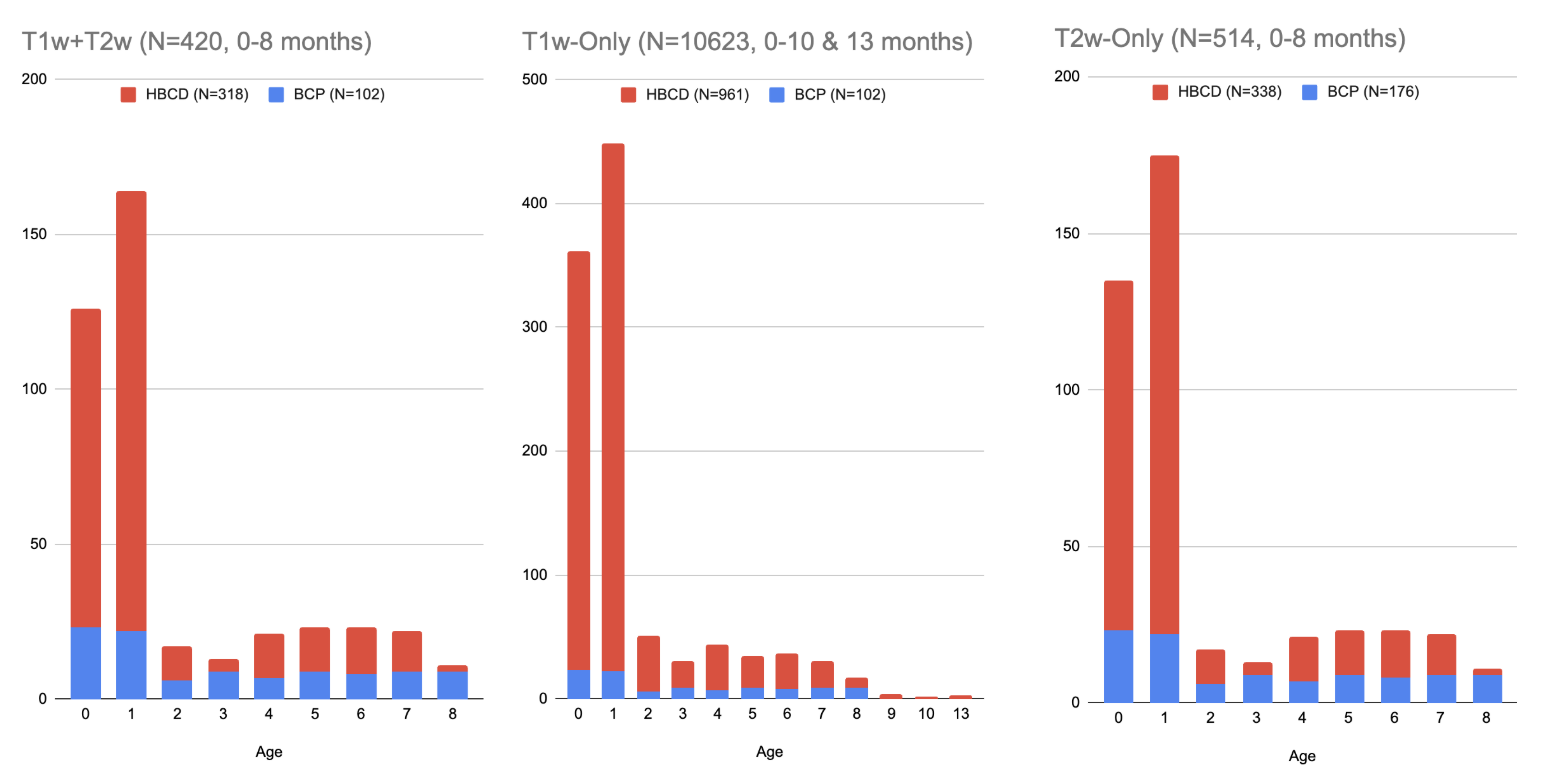
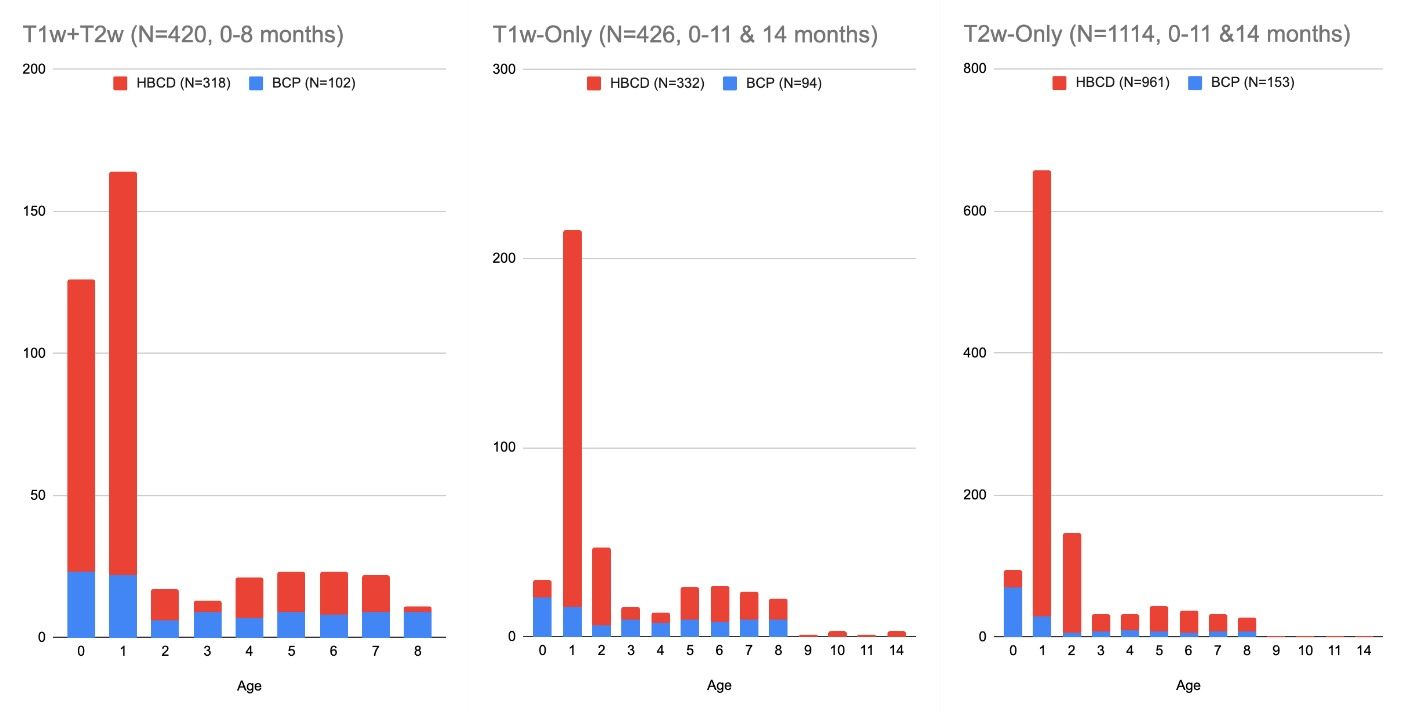
Update documentation and .gitignore for BIBSNet v3.7.0 release - Added known issue warning for v3.6.0 models in index.md - Updated model version references in index.md and outputs.md - Enhanced usage instructions with example commands in usage.md - Included additional entries in .gitignore for envir

diff --git a/docs/index.md b/docs/index.md
@@ -30,19 +30,22 @@ From [Hendrickson et al. 2025](https://www.biorxiv.org/content/10.1101/2023.03.2
 
 ## BIBSNet Model Training
 
+!!! warning "Known Issue with v3.6.0 T1- and T2-only models"
+    The training and test data used for T1-only model training included a mix of T1- and T2- based data. In addition, the T2-only model, while trained on T2-only data, was trained on a smaller portion of the available data. **Please use the latest version of BIBSNet (v3.7.0) for which the models have been corrected.** Any single modality output segmentations from v3.6.0 will still be comparable to those from v3.7.0, although single modality outputs using the T2-only model in particular show marginal improvements upon internal testing. 
+
 The BIBSNet model was trained using the [nnU-Net](https://www.nature.com/articles/s41592-020-01008-z) framework (Isensee et al., 2021) with a large dataset of manually corrected infant MRI brain tissue segmentations. To improve generalizability across scanners and acquisition protocols, data augmentation was performed using [SynthSeg](https://surfer.nmr.mgh.harvard.edu/fswiki/SynthSeg), generating 1,000 synthetic images per month age bin per modality (T1w/T2w).
 
 Full methodological details, based on paired T1w and T2w inputs, are described in [Hendrickson et al., 2025](https://doi.org/10.1101/2023.03.22.533696). **In addition to the multimodal (T1w+T2w) model described in this publication, single-modality T1w-only and T2w-only models are also available.** The appropriate model is automatically selected at runtime, depending on which modalities are present in the input data.
 
 BIBSNet models are periodically retrained to incorporate new data spanning a wider range of ages and datasets.
-The details below describe the dataset composition used for the most recent model release (**v3.6.0**).
+The details below describe the dataset composition used for the most recent model release (**v3.7.0**).
 
-### BIBSNet Model v3.6.0
-Training data for v3.6.0 include:
+### BIBSNet Model v3.7.0
+Training data for v3.7.0 include:
 
  - BCP data (0–8 months old), manually curated as part of the publicly available [BOBs Repository](https://bobsrepository.readthedocs.io/) (as described in Hendrickson et al., 2025, except with an expanded number of participants)
- - [HBCD Study](https://hbcdstudy.org/) data (0–13 months old)
- - SynthSeg images for augmentation: 1,000 per month age bin per modality (N=9000 T1w/T2w for T1w+T2w & T2w-only models; N=12000 T1w for T1w-only model)
+ - [HBCD Study](https://hbcdstudy.org/) data (0–14 months old)
+ - SynthSeg images for augmentation: 1,000 per month age bin per modality (N=9000 per modality for T1w+T2w model; N=13000 for T1w-only and T2w-only models)
  
 ![](stats.png)
 

diff --git a/docs/usage.md b/docs/usage.md
@@ -14,10 +14,10 @@ docker pull dcanumn/bibsnet:latest
 
 To pull a specific version, replace `latest` (which is connected to the most recent version) with the version number, e.g: 
 ```
-# Singularity command:
+# example Singularity command:
 singularity pull bibsnet.sif docker://dcanumn/bibsnet:release-3.4.2
 
-# Docker command:
+# example Docker command:
 docker pull dcanumn/bibsnet:release-3.4.2
 ```
 

diff --git a/docs/outputs.md b/docs/outputs.md
@@ -25,7 +25,7 @@ derivatives/
 
 ## Sidecar JSONs
 A sidecar JSON will be made for each of the .nii.gz files in derivatives.
-Below is an example JSON for a file `sub-01_ses-A_space-T1w_desc-aseg_dseg.json` generated by BIBSnet version 3.0.0
+Below is an example JSON for a file `sub-01_ses-A_space-T1w_desc-aseg_dseg.json` generated by BIBSnet version 3.0.0 and above
 
 ```
 {
